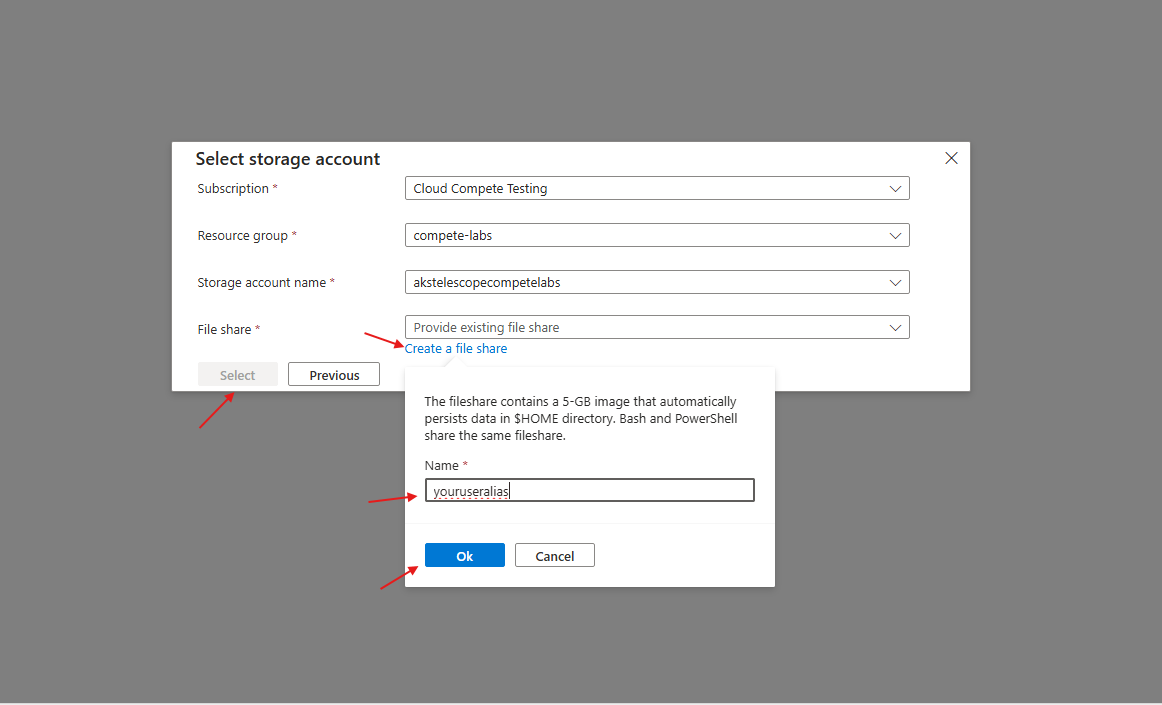
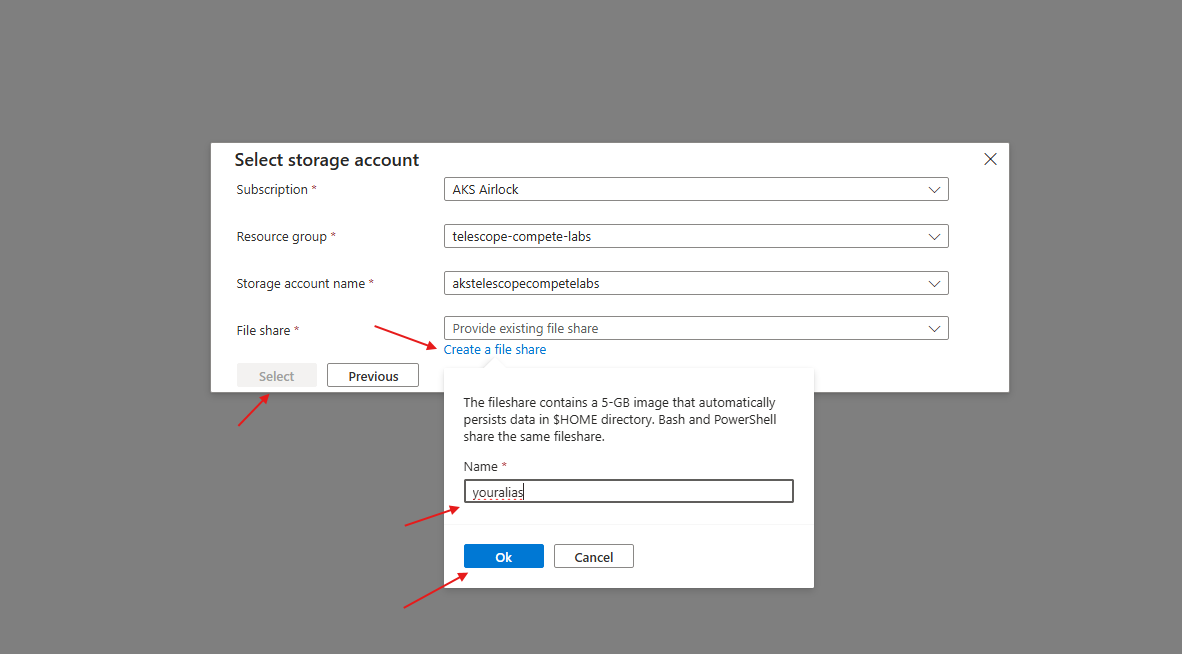
Update instructions after migration (#34)

Changed region(s): [[0.1239, 0.1835, 0.8675, 0.9174], [0.0, 0.9786, 1.0, 1.0], [0.7745, 0.2752, 0.8055, 0.3058]]

diff --git a/docs/mount_storage_account_on_cloud_shell.md b/docs/mount_storage_account_on_cloud_shell.md
@@ -17,7 +17,7 @@
 
 <img src="img/choose_shell.png" alt="Choose Bash" width="960" height="600">
 
-* Next, choose **Mount storage account** and search for **Cloud Compete Testing** under *Storage account subscription*
+* Next, choose **Mount storage account** and search for **AKS Airlock** under *Storage account subscription*
 
 <img src="img/choose_storage.png" alt="Choose storage" width="960" height="600">
 
@@ -25,7 +25,7 @@
 
 <img src="img/confirm_existing.png" alt="Choose existing storage" width="960" height="600">
 
-* Fill in the *Resource group* with **compete-labs** and *Storage account name* with **akstelescopecompetelabs**
+* Fill in the *Resource group* with **telescope-compete-labs** and *Storage account name* with **akstelescopecompetelabs**
 * In *File share* section, choose **Create a file share** and type your name or useralias under *Name* and click *Ok*
 * Once all information is filled in, click **Select** and wait for CloudShell session to be open
 
